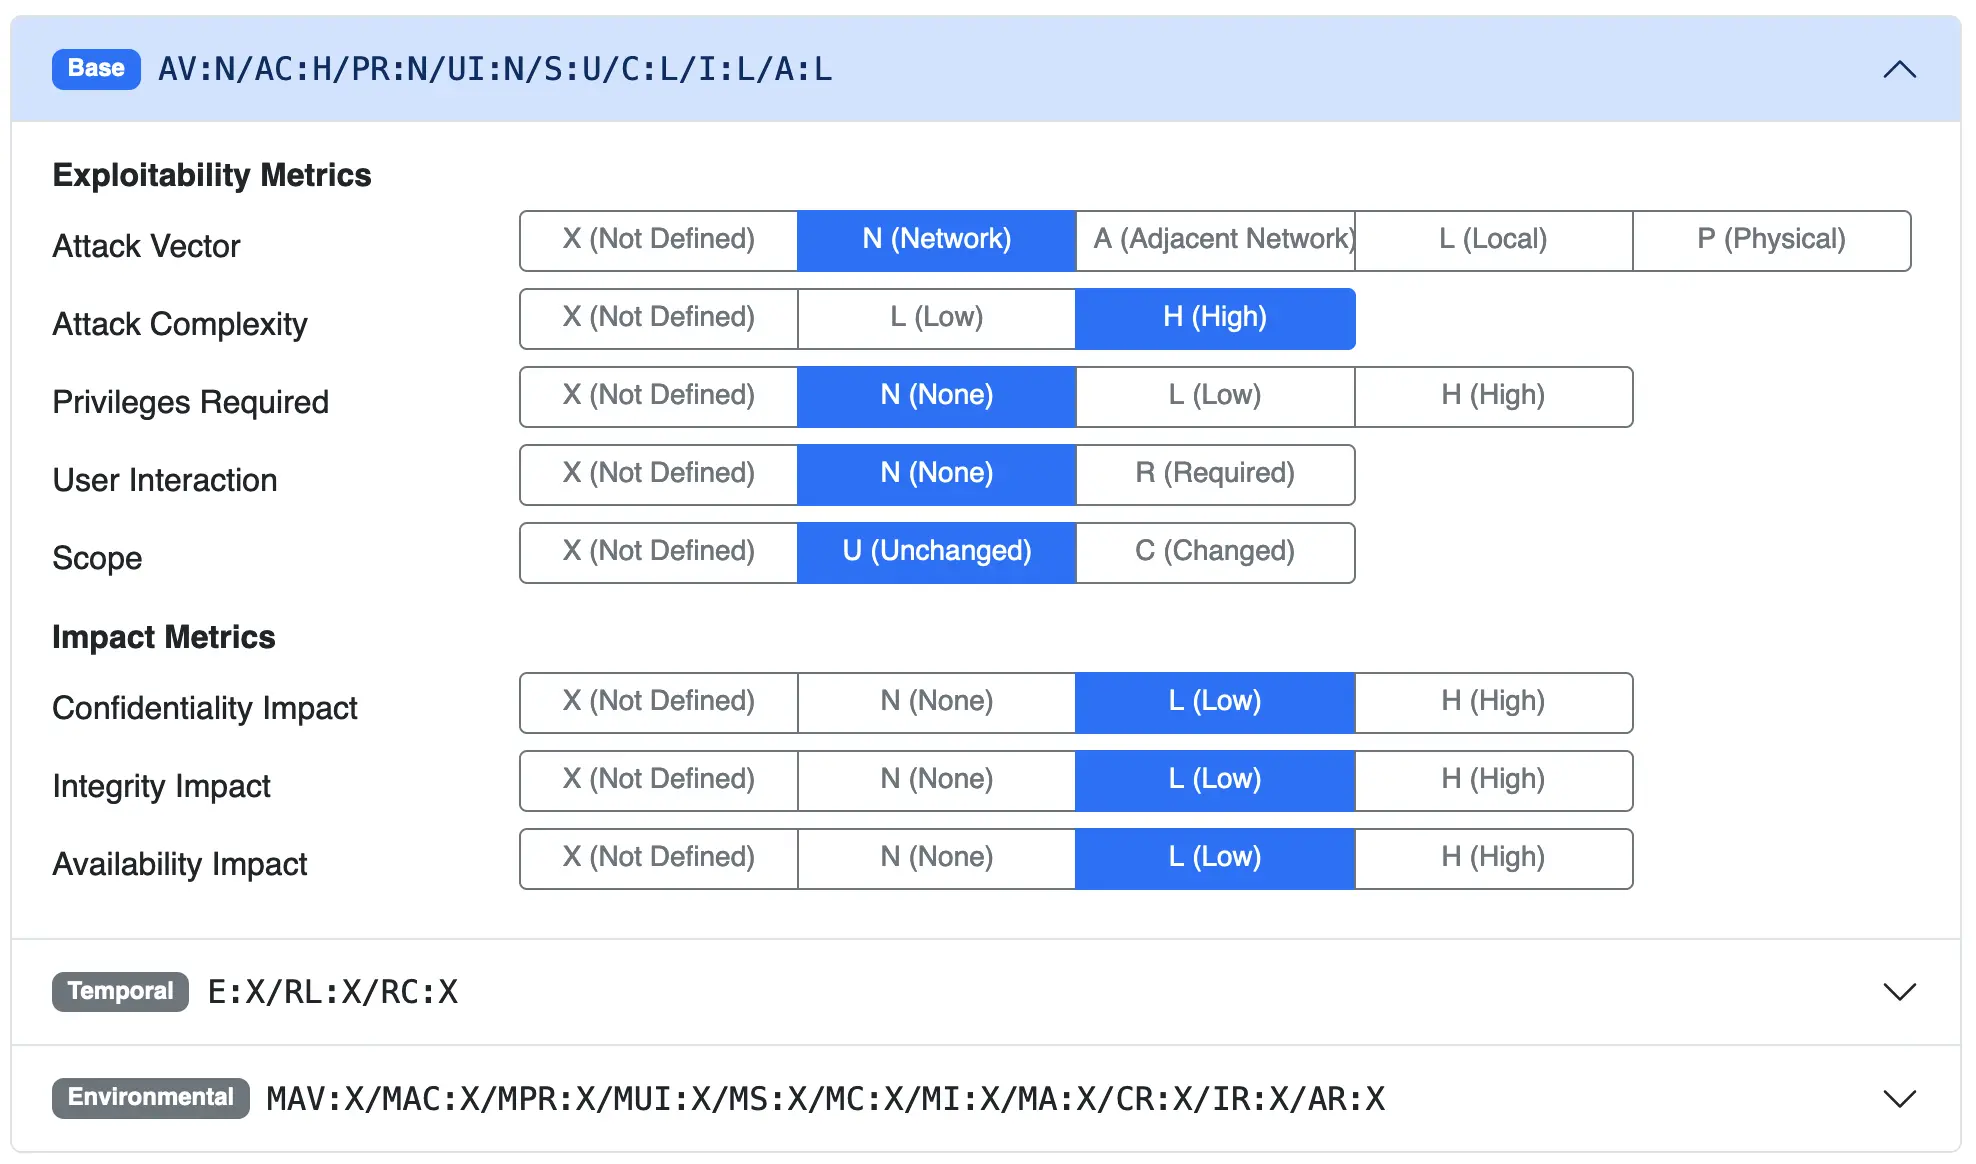
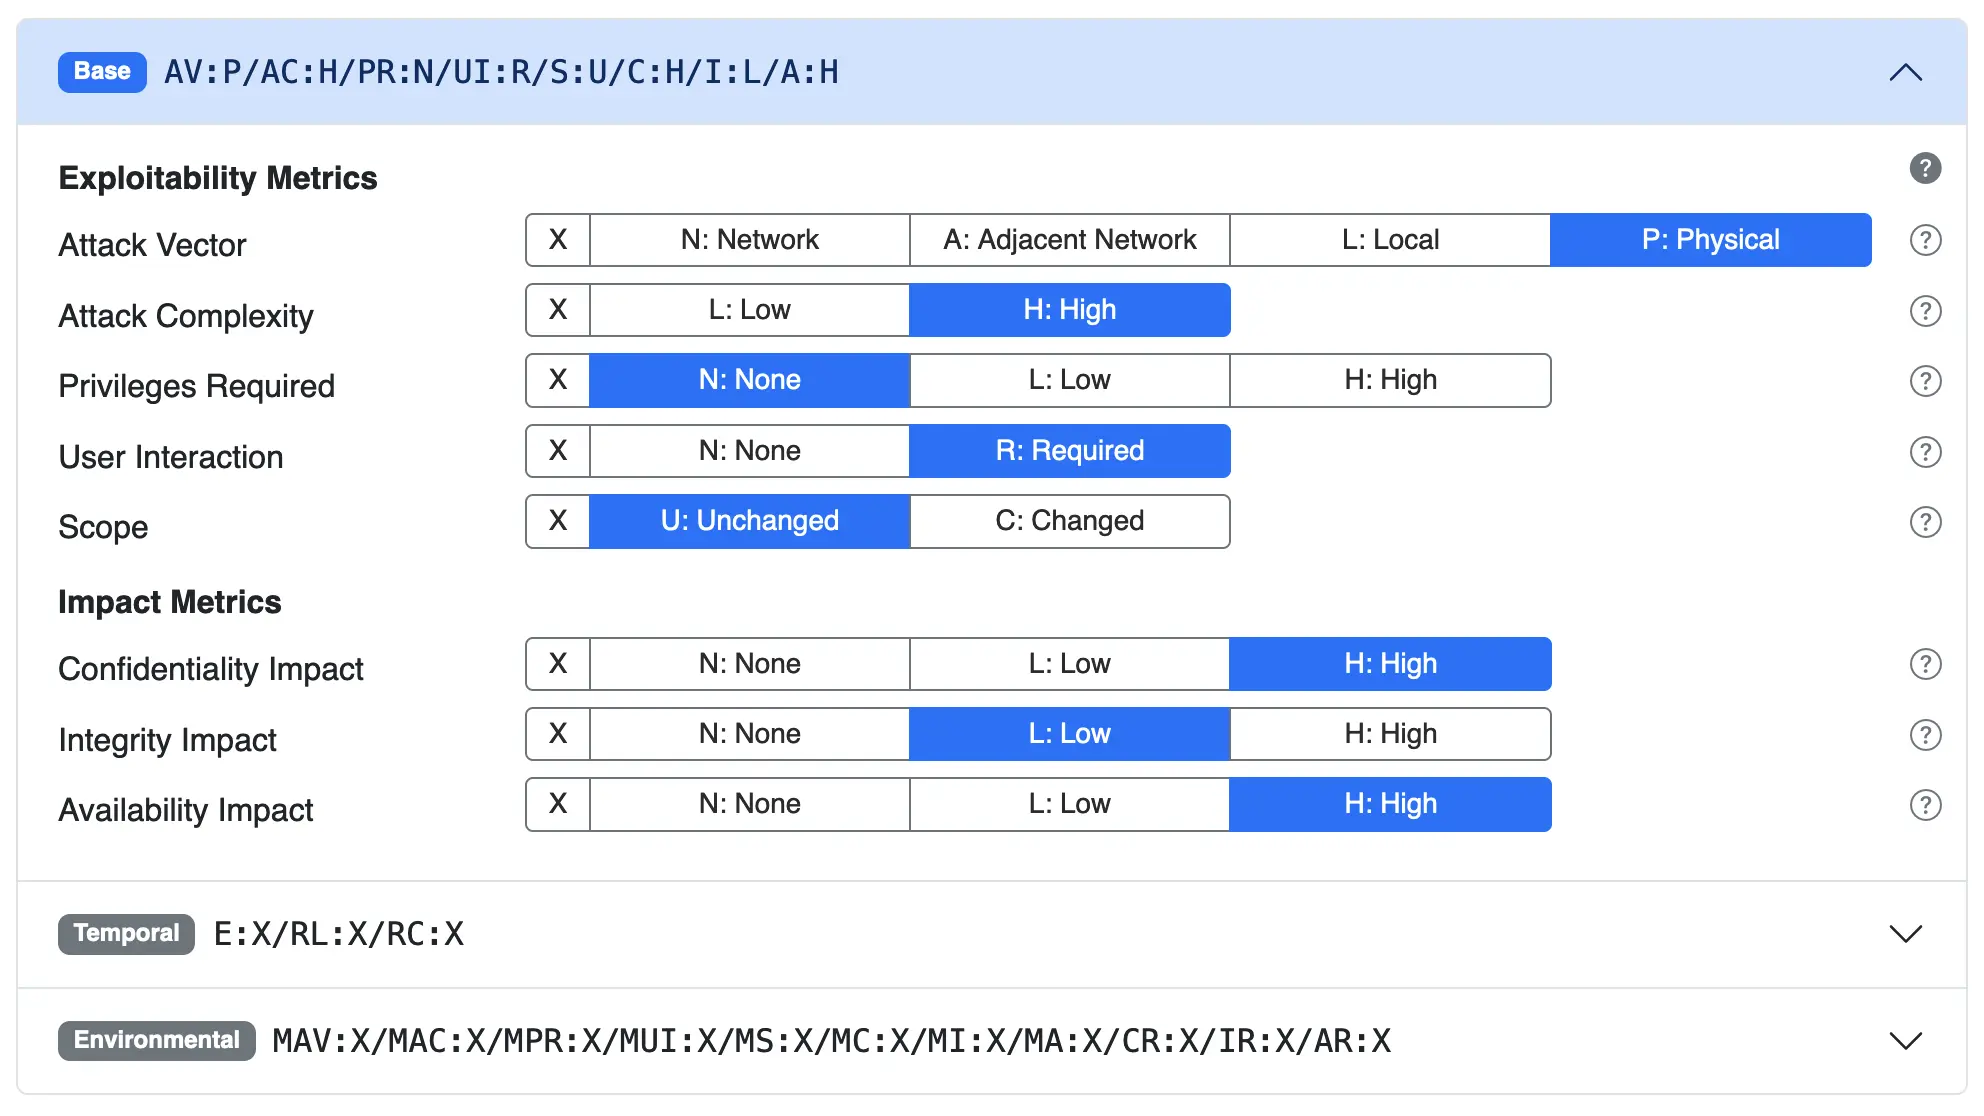
Base metric user guides will now be hidden if all base metrics are already defined

diff --git a/site/js/scripts.js b/site/js/scripts.js
@@ -1351,6 +1351,9 @@ window.addEventListener('resize', () => {
     abbreviationResizeTimeout = setTimeout(updateAbbreaviatableComponentElements, 500);
 });
 
+// by default, the base category user guides are only shown if the vector is empty upon selection
+let forceUserGuidesVisible = false;
+
 function setSelectedVector(vectorInstance) {
     selectedVector = vectorInstance;
     // now build the accordion
@@ -1375,6 +1378,9 @@ function setSelectedVector(vectorInstance) {
     for (let componentCategory of registeredComponents.keys()) {
         const componentCategoryName = componentCategory.name;
         const componentsList = registeredComponents.get(componentCategory);
+
+        // by default, show on non-base metrics or on all if the vector base metrics are empty
+        const showUserGuides = forceUserGuidesVisible || componentCategory.name !== 'base' || !vectorInstance.isBaseFullyDefined();
 
         const queryMap = new Map();
         queryMap.set(componentCategory, componentsList);
@@ -1462,40 +1468,58 @@ function setSelectedVector(vectorInstance) {
 
                     // find all user guides in this componentsList
                     if (isFirst) {
-                        const userGuides = [];
-                        for (let component of componentsList) {
-                            const userGuide = findCvssUserGuide(vectorInstance.getVectorName(), component.shortName);
-                            if (userGuide) {
-                                userGuides.push({
-                                    userGuide: userGuide,
-                                    component: component
+                        if (showUserGuides) {
+                            const userGuides = [];
+                            for (let component of componentsList) {
+                                const userGuide = findCvssUserGuide(vectorInstance.getVectorName(), component.shortName);
+                                if (userGuide) {
+                                    userGuides.push({
+                                        userGuide: userGuide,
+                                        component: component
+                                    });
+                                }
+                            }
+
+                            if (userGuides.length > 0) {
+                                const userGuideButton = document.createElement('i');
+                                userGuideButton.classList.add('position-absolute', 'bi', 'bi-question-circle-fill', 'text-secondary', 'user-guide-group');
+                                userGuideButton.setAttribute('data-bs-toggle', 'popover');
+                                userGuideButton.setAttribute('data-bs-placement', 'right');
+                                userGuideButton.setAttribute('data-bs-content', 'Click to open a multiple-choice dialog to select the correct values for the metrics in this group.');
+                                userGuideButton.setAttribute('title', 'User Guide: all ' + componentCategoryName + ' metrics');
+                                userGuideButton.setAttribute('data-bs-trigger', 'hover');
+                                accordionBody.appendChild(userGuideButton);
+
+                                userGuideButton.addEventListener('click', () => {
+                                    let index = 0;
+
+                                    function openNextUserGuideModal() {
+                                        if (index < userGuides.length) {
+                                            openUserGuideModal(vectorInstance, userGuides[index].component, userGuides[index].userGuide, openNextUserGuideModal);
+                                            index++;
+                                        }
+                                    }
+
+                                    openNextUserGuideModal();
                                 });
                             }
-                        }
-
-                        if (userGuides.length > 0) {
+                        } else {
+                            // add a dummy icon with a hint that user guides are available
                             const userGuideButton = document.createElement('i');
-                            userGuideButton.classList.add('position-absolute', 'bi', 'bi-question-circle-fill', 'text-secondary', 'user-guide-group');
+                            userGuideButton.classList.add('position-absolute', 'bi', 'bi-question-circle', 'text-danger', 'user-guide-group');
                             userGuideButton.setAttribute('data-bs-toggle', 'popover');
                             userGuideButton.setAttribute('data-bs-placement', 'right');
-                            userGuideButton.setAttribute('data-bs-content', 'Click to open a multiple-choice dialog to select the correct values for the metrics in this group.');
-                            userGuideButton.setAttribute('title', 'User Guide: all ' + componentCategoryName + ' metrics');
+                            userGuideButton.setAttribute('data-bs-content', 'Base metrics that are already defined should not be modified by an assessment team. User guides are disabled for that reason, but can be forced by clicking this button.');
+                            userGuideButton.setAttribute('title', 'User Guide disabled');
                             userGuideButton.setAttribute('data-bs-trigger', 'hover');
+                            userGuideButton.setAttribute('data-bs-custom-class', 'popover-danger');
                             accordionBody.appendChild(userGuideButton);
 
+                            // allow overriding the default behavior of showing user guides if the vector is empty using forceUserGuidesVisible
                             userGuideButton.addEventListener('click', () => {
-                                let index = 0;
-
-                                function openNextUserGuideModal() {
-                                    if (index < userGuides.length) {
-                                        openUserGuideModal(vectorInstance, userGuides[index].component, userGuides[index].userGuide, openNextUserGuideModal);
-                                        index++;
-                                    }
-                                }
-
-                                openNextUserGuideModal();
+                                forceUserGuidesVisible = !forceUserGuidesVisible;
+                                setSelectedVector(selectedVector);
                             });
-
                         }
                     }
                 }
@@ -1506,7 +1530,7 @@ function setSelectedVector(vectorInstance) {
 
                 // user guide button if available
                 const userGuide = findCvssUserGuide(vectorInstance.getVectorName(), component.shortName);
-                if (userGuide) {
+                if (userGuide && showUserGuides) {
                     const userGuideButton = document.createElement('i');
                     userGuideButton.classList.add('position-absolute', 'bi', 'bi-question-circle', 'text-secondary', 'user-guide-individual');
                     userGuideButton.setAttribute('data-bs-toggle', 'popover');
@@ -2159,7 +2183,7 @@ function loadDemo() {
 
 setTimeout(() => {
     const currentHtmlVersion = document.getElementById('cvss-calculator-current-version').innerText;
-    if (currentHtmlVersion !== '1.0.17') {
+    if (currentHtmlVersion !== '1.0.18') {
         createBootstrapToast('New version available', 'A new version of the CVSS Calculator is available. Please refresh the page to load the new version or clear the cache.', 'info', 10 * 1000);
     }
     const changelogBody = document.getElementById('cvss-calculator-changelog-body');

diff --git a/site/index.html b/site/index.html
@@ -292,7 +292,7 @@ limitations under the License.
             <div class="col-lg-2 mb-2">
                 <i class="bi bi-braces-asterisk me-1"></i>
                 <a data-bs-toggle="modal" data-bs-target="#changelogModal" href="#" class="footer-link">
-                    <span id="cvss-calculator-current-version">1.0.17</span> <span style="opacity: 40%">&nbsp;(2024-08-22)</span>
+                    <span id="cvss-calculator-current-version">1.0.18</span> <span style="opacity: 40%">&nbsp;(2024-10-01)</span>
                 </a>
             </div>
         </div>
@@ -572,6 +572,11 @@ Copyright:
                 <button type="button" class="btn-close" data-bs-dismiss="modal" aria-label="Close"></button>
             </div>
             <div class="modal-body">
+                The CVSS Calculator allows you to calculate the CVSS score of a vulnerability based on the CVSS
+                standard.
+                It stands out because of its ability to manage multiple vectors at once, calculate all available scores
+                for each vector, and visualize them in a radar chart.
+                <hr>
                 <h5>Creating new CVSS vectors</h5>
                 Using the buttons and input field at the top, you can:
                 <ul>
@@ -599,6 +604,10 @@ Copyright:
                 Expand an accordion section by clicking its header to view and modify the individual components of that
                 vector segment.
                 <img src="img/how-to-vector-accordion-open.webp" alt="Opened editing accordion" class="img-fluid">
+                The <i class="bi bi-question-circle-fill text-secondary"></i> icon next to each metric provides an
+                interactive user guide that allows to easily set the metric to a desired value without having to
+                remember what each value means.<br>
+                If a vector already has all its base metrics defined, the user guide will be hidden.
                 <hr>
                 <h5>Interpreting the results</h5>
                 The table below the vector list shows the available calculated scores for each CVSS vector.
@@ -667,9 +676,14 @@ Copyright:
                 <button type="button" class="btn-close" data-bs-dismiss="modal" aria-label="Close"></button>
             </div>
             <div class="modal-body" id="cvss-calculator-changelog-body">
+                <h5>Version 1.0.18 <span class="fs-6 text-secondary ms-2">2024-10-01</span></h5>
+                <ul>
+                    <li>User guides are now hidden on base metrics if the category is already fully defined.</li>
+                </ul>
+                <hr>
                 <h5>Version 1.0.17 <span class="fs-6 text-secondary ms-2">2024-08-22</span></h5>
                 <ul>
-                    <li>Added use guides for some environmental metrics.</li>
+                    <li>Added user guides for some environmental metrics.</li>
                 </ul>
                 <hr>
                 <h5>Version 1.0.16 <span class="fs-6 text-secondary ms-2">2024-03-18</span></h5>

diff --git a/site/styles.css b/site/styles.css
@@ -633,3 +633,13 @@ body {
         transform: rotate(0deg);
     }
 }
+
+.popover-danger .popover-header {
+    background-color: var(--bs-danger) !important;
+    color: var(--bs-light) !important;
+}
+
+.popover-danger .popover-body {
+    background-color: #fdd7d7 !important;
+    color: var(--bs-dark) !important;
+}
